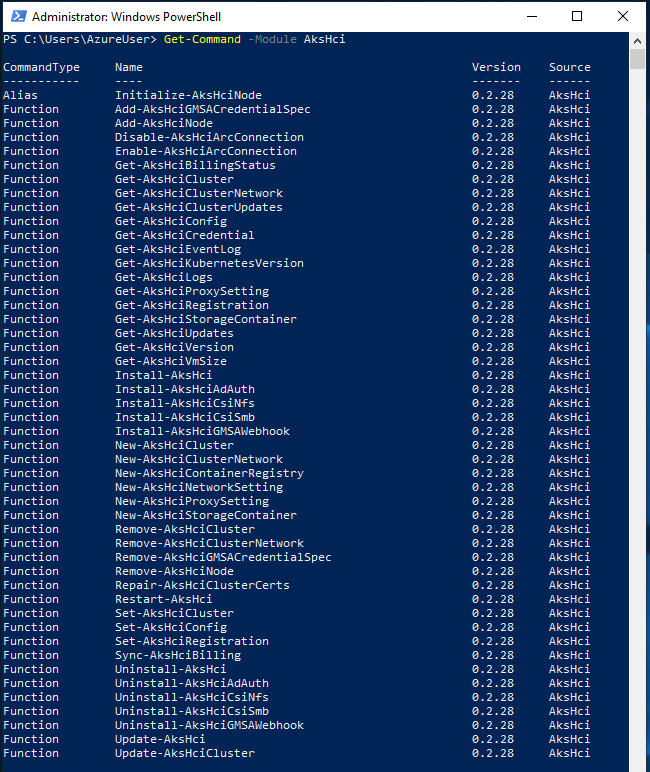
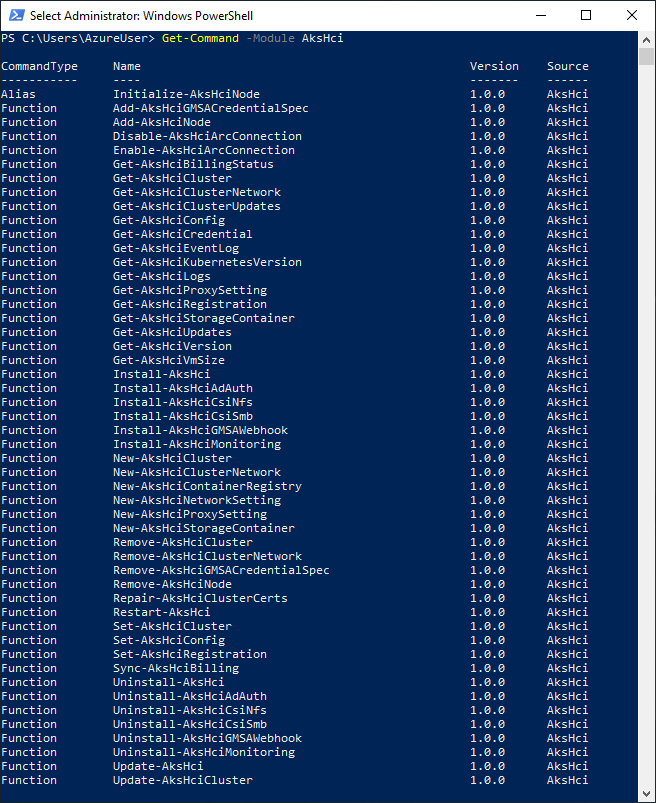
Updated PS Steps

Changed region(s): [[0.0, 0.0, 1.0, 1.0]]

diff --git a/eval/steps/2b_DeployAKSHCI_PS.md b/eval/steps/2b_DeployAKSHCI_PS.md
@@ -62,19 +62,11 @@ Unregister-PSRepository -Name AksHciPSGalleryPreview -ErrorAction:SilentlyContin
 Exit
 ```
 
-3. Open a new **administrative PowerShell console**, and run the following to install the required PowerShell modules:
+3. Open a new **administrative PowerShell console**, and run the following to install the required PowerShell module and dependencies:
 
 ```powershell
-Install-Module -Name Az.Accounts -Repository PSGallery -Force -AllowClobber -RequiredVersion 2.2.4
-Install-Module -Name Az.Resources -Repository PSGallery -Force -AllowClobber -RequiredVersion 3.2.0
-Install-Module -Name AzureAD -Repository PSGallery -Force -AllowClobber -RequiredVersion 2.0.2.128
+Install-Module -Name AksHci -Repository PSGallery -RequiredVersion 1.0.0 -AcceptLicense -Force
 ```
-
-*******************************************************************************************************
-
-**NOTE** - **Microsoft internal teams** - use the internal method documented on OSG Wiki to install the AKS-HCI PS modules
-
-*******************************************************************************************************
 
 4. Once complete, if you haven't already, make sure you **close all PowerShell windows**
 
@@ -229,12 +221,6 @@ $vnet = New-AksHciNetworkSetting -Name "mgmtvnet" -vSwitchName "InternalNAT" -ga
 
 5. With the **networking configuration** defined, you can now finalize the configuration of your AKS on Azure Stack HCI deployment
 
-*******************************************************************************************************
-
-**NOTE** - Microsoft internal testers will need to add **-catalog** and **-ring** to the Set-AksHciConfig command. Refer to OSG Wiki for details.
-
-*******************************************************************************************************
-
 ```powershell
 Set-AksHciConfig -vnet $vnet -imageDir "V:\AKS-HCI\Images" -cloudConfigLocation "V:\AKS-HCI\Config" -Verbose
 ```
@@ -251,7 +237,7 @@ This command will take a few moments to complete, but once done, you should see 
 
 Now, if you make a mistake, simply run **Set-AksHciConfig** without any parameters, and that will reset your configuration.
 
-6. With the configuration files finalized, you need to **finalize the registration configuration**. From your **administrative PowerShell** window, run the following commands:
+1. With the configuration files finalized, you need to **finalize the registration configuration**. From your **administrative PowerShell** window, run the following commands:
 
 ```powershell
 # Login to Azure
